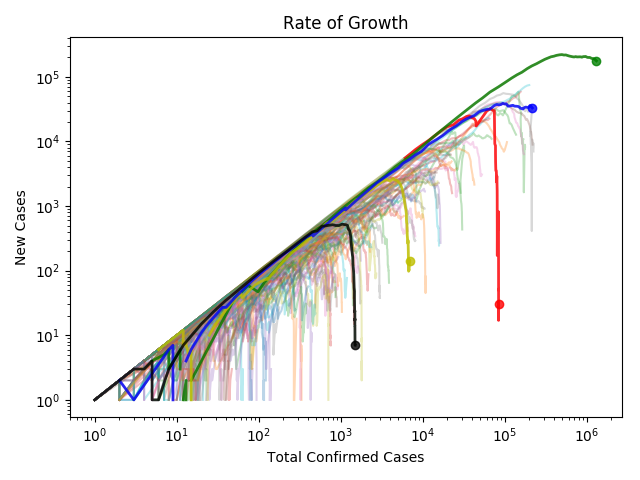
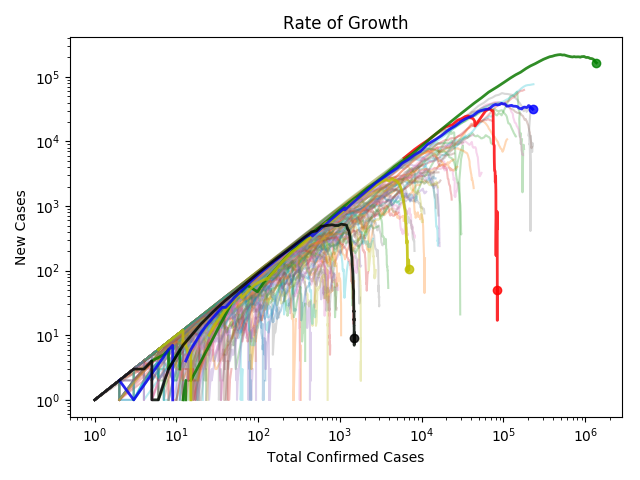
Updated data

diff --git a/NZModel/nz_data.py b/NZModel/nz_data.py
@@ -28,7 +28,7 @@ header=3
 #filename = "covidcase_list_1_apr_2020.xlsx"
 date_column = date_column_sus = "Date notified of potential case"
 #filename = "covid-cases-7may20.xlsx"
-filename = "covidconfirmed_and_probable_cases_-_11_may_2020.xlsx"
+filename = "covid-cases-14may20.xlsx"
 
 # The data keeps getting worse *sigh*
 def date_decoder(x):
